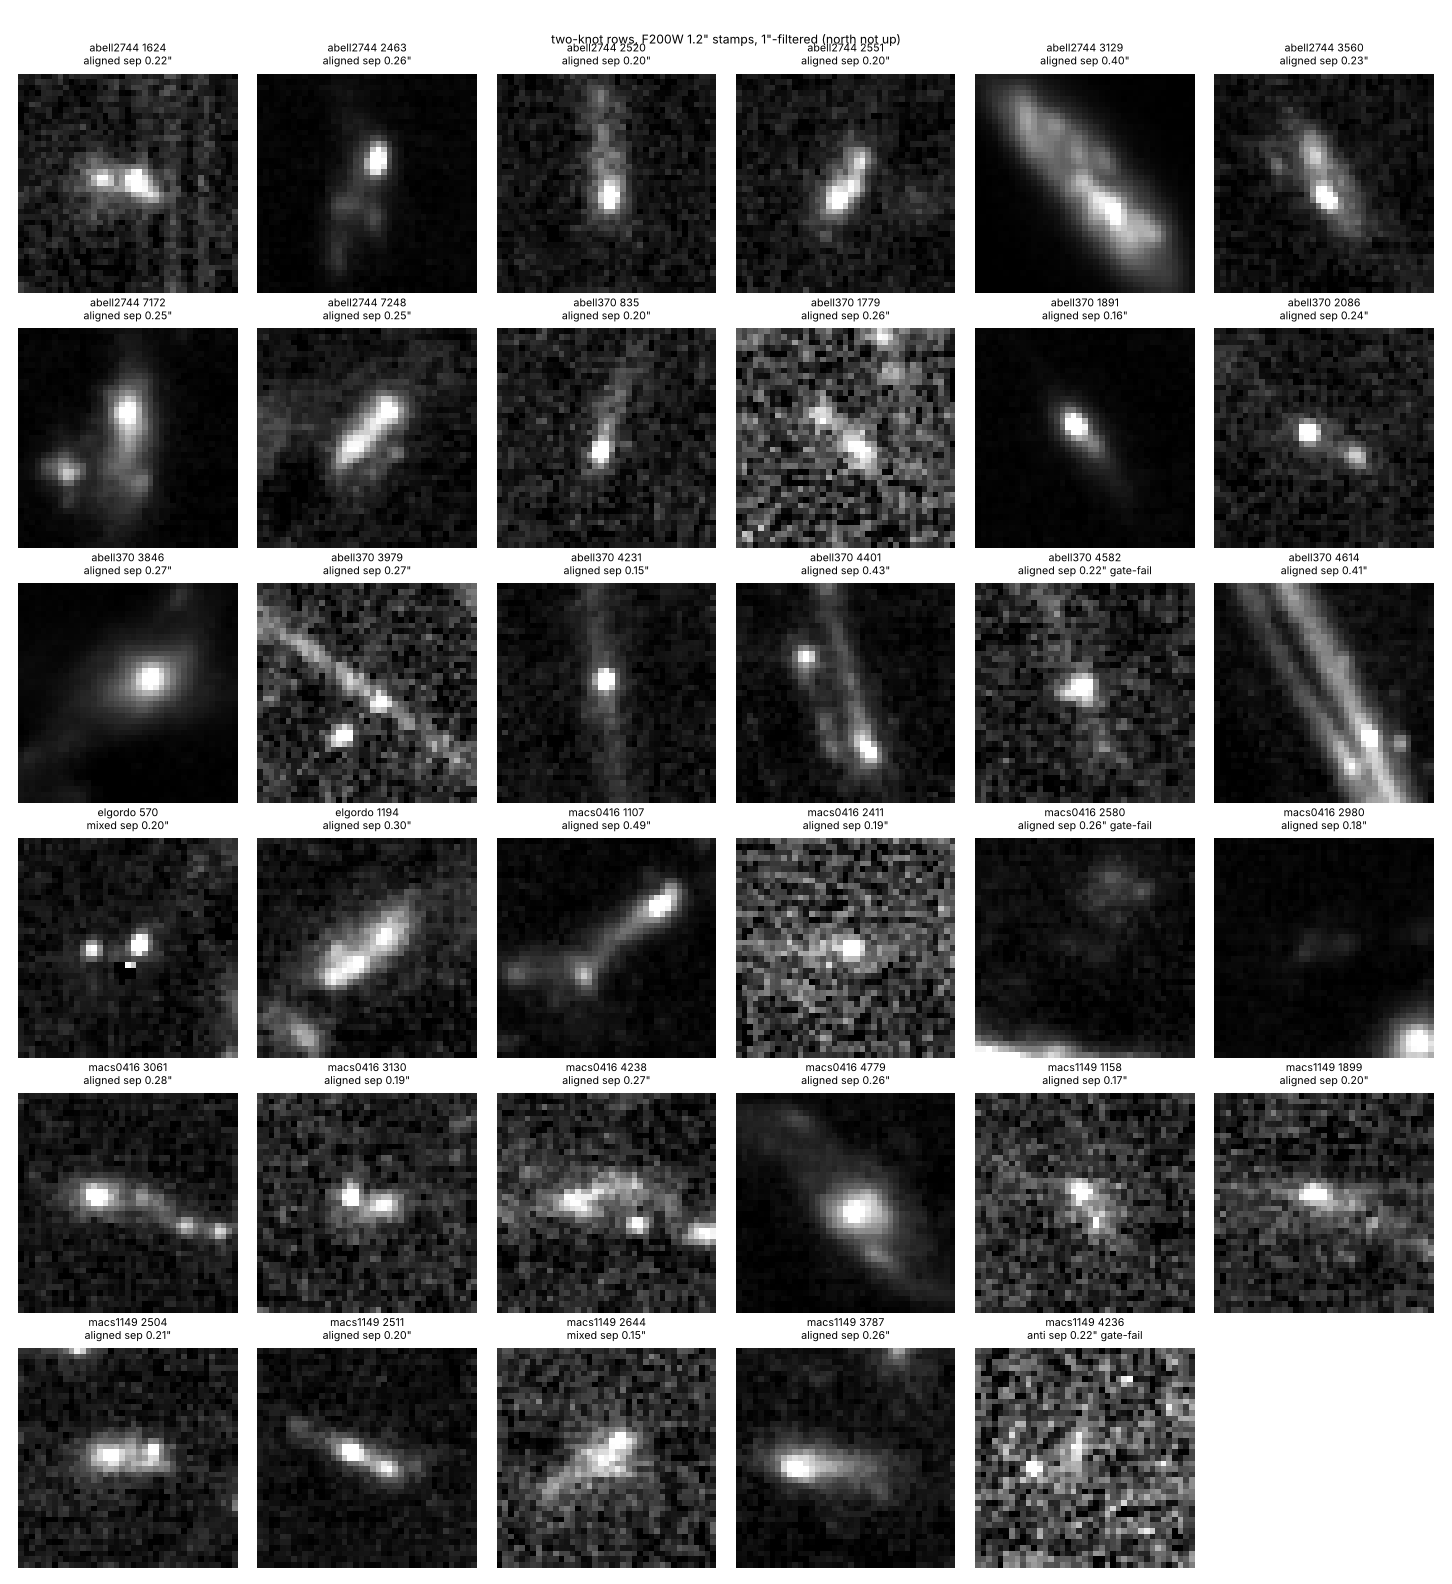
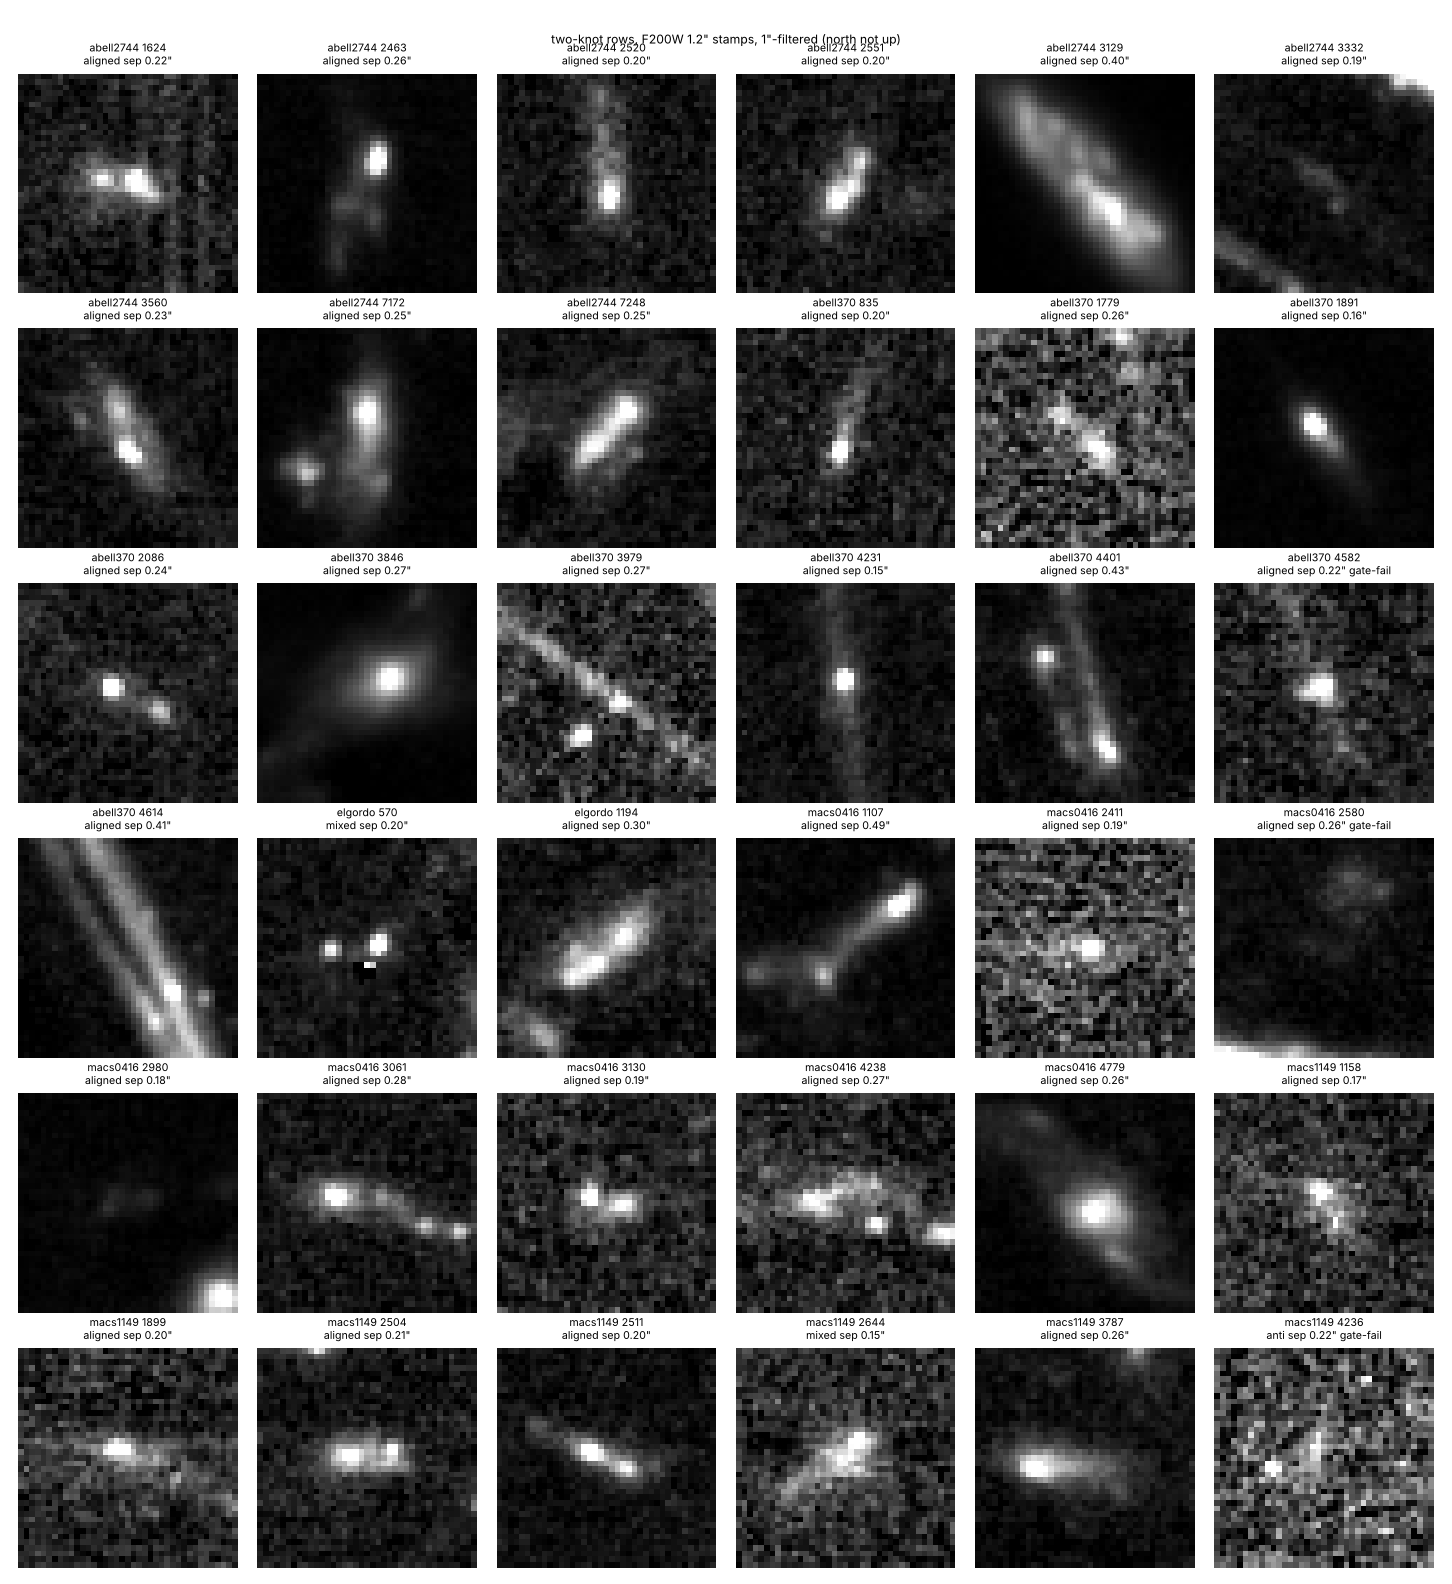
arcs census-fields: re-run with #273's fixed fit_models; f 0.280, S1063 P 0.032, outcome unchanged
Three formerly pinned fits changed class (Abell 2744 3332, MACS0416 1414 and 2144); the frozen
outcome "excess remains at the five-field clump rate (exploratory)" is unchanged.

Claude-Session: https://claude.ai/code/session_01GeKWTRU8v16Vhbc7AbDBQh

diff --git a/results/arcs/census-fields/RESULT.md b/results/arcs/census-fields/RESULT.md
@@ -4,24 +4,33 @@ Plan: `PLAN.md` (committed before the run, 468f018). Script: `scripts/arcs_censu
 unchanged; outcome rule `plan_outcome`, unit-tested) → `census_fields.{json,ecsv}`, `two_knot.png`. Labels: pixels
 observed; classes derived; injections simulations; f̂ and P model_prediction. Depends on #273 (S1063 census).
 
+## Re-run with the fixed census code (2026-10-16, cloud routine 01GeKWTR)
+The first run (055621d) used the pre-fix `arcs_vet_deblend.fit_models` (start flux and bound from the filtered sum,
+which pinned faint sources). The tables below are the re-run with #273's final code on main (`flux_scale`), plan,
+seeds and rules unchanged; cutouts re-fetched. Three rows changed, all from pinned fits (old knot S/N ~1e-10):
+Abell 2744 3332 `single` gate-failed → `two-knot` gate-passed; MACS0416 1414 and 2144 `single` → `undecided`, both
+still gate-failed. Pooled f̂ 0.274 → 0.280, S1063 P 0.031 → 0.032; the frozen outcome is unchanged. Looked at: 3332
+is a faint low-surface-brightness source near the mosaic edge, not a clear pair by eye (it raises f̂, as the rows
+noted below).
+
 ## Census (frozen rule, own-flux gate per row; `census_fields.json` "per_field")
 | Field | rows | gate passed | `two-knot` | f̂ | 95 % upper |
 |---|---|---|---|---|---|
-| Abell 2744 | 35 | 33 | 8 | 0.242 | 0.423 |
+| Abell 2744 | 35 | 34 | 9 | 0.265 | 0.444 |
 | Abell 370 | 56 | 34 | 9 | 0.265 | 0.444 |
 | El Gordo | 12 | 12 | 2 | 0.167 | 0.484 |
 | MACS0416 | 27 | 19 | 7 | 0.368 | 0.616 |
 | MACS1149 | 24 | 19 | 6 | 0.316 | 0.566 |
-| **Pooled** | 154 | 117 | 32 | **0.274** | **0.364** |
+| **Pooled** | 154 | 118 | 33 | **0.280** | **0.370** |
 | S1063 (#273, for comparison) | 24 | 21 | 5 | 0.238 | 0.472 |
 
 No row fell outside its mosaic. Every field has ≥ 12 gate-passed rows.
 
 ## S1063 under the five-field rate (frozen outcome; `census_fields.json` "s1063_p_ge_4_anti")
 - Mixture null with the S1063 per-row p_cp, p_sn (`abells1063-cats/vetting/census.ecsv`): P(≥ 4 anti) =
-  **0.031** at the pooled f̂ and 0.054 at its 95 % upper.
-- **Frozen outcome: "S1063 excess remains at the five-field clump rate (exploratory)"** (0.031 < 0.05).
-- Reading (narrow): an independent clump rate (0.27) is close to S1063's own (0.24), so it does not remove the
+  **0.032** at the pooled f̂ and 0.056 at its 95 % upper.
+- **Frozen outcome: "S1063 excess remains at the five-field clump rate (exploratory)"** (0.032 < 0.05).
+- Reading (narrow): an independent clump rate (0.28) is close to S1063's own (0.24), so it does not remove the
   excess; at the pooled upper (0.36) P is just above 0.05. The S1063-only upper (0.47) gave 0.093 (#273); the pooled
   rate narrows that range.
 

diff --git a/CHANGELOG.md b/CHANGELOG.md
@@ -2,14 +2,17 @@
 
 Newest first. Results, failed approaches and the handoff state; not a diary.
 
-## 2026-10-16: Clump-pair census on five other `arcs` fields: pooled two-knot rate 0.27; the S1063 anti excess stays at P 0.031 (exploratory)
+## 2026-10-16: Clump-pair census on five other `arcs` fields: pooled two-knot rate 0.28; the S1063 anti excess stays at P 0.032 (exploratory)
 - **Why:** the S1063 clump-aware null (#273) used a clump rate from that field alone (0.24, upper 0.47). Plan before
   the run: `results/arcs/census-fields/PLAN.md`; code `scripts/arcs_census_fields.py` (S1063 census code unchanged,
   outcome rule unit-tested). Depends on #273.
 - **Result (derived; `results/arcs/census-fields/RESULT.md`, `census_fields.json`):** 154 strong-shear background
-  rows in Abell 2744, Abell 370, El Gordo, MACS0416, MACS1149; 117 pass the own-flux gate; 32 `two-knot` → pooled
-  f̂ 0.274 (95 % upper 0.364; per field 0.17–0.37). S1063 P(≥ 4 anti) 0.031 at f̂, 0.054 at the upper. **Frozen
+  rows in Abell 2744, Abell 370, El Gordo, MACS0416, MACS1149; 118 pass the own-flux gate; 33 `two-knot` → pooled
+  f̂ 0.280 (95 % upper 0.370; per field 0.17–0.37). S1063 P(≥ 4 anti) 0.032 at f̂, 0.056 at the upper. **Frozen
   outcome: excess remains at the five-field clump rate (exploratory).**
+- **Re-run with the fixed `fit_models`** (#273 final code; the first run used the pre-fix version): 3 rows changed,
+  all formerly pinned fits (Abell 2744 3332 → gate-passed `two-knot`; MACS0416 1414, 2144 → `undecided`, still
+  gate-failed); first-run values 117 / 32 / 0.274 / P 0.031. Outcome unchanged; these numbers may now be cited.
 - **Looked at** (`two_knot.png`): several `two-knot` rows are a knot plus a neighbouring streak or object, which
   can only raise f̂. Post hoc: none of the 4 gate-passed screen-anti rows in the five fields is `two-knot`.
 - **Handoff:** 1316 and 1557 remain open, unvetted, not candidates. Next: an independent field for the anti excess

diff --git a/TASKS.md b/TASKS.md
@@ -219,7 +219,8 @@ Independent program; takes no resources from MOA-II, S1, E1/D1 or data validatio
      `results/arcs/macs1423-canucs/`): CANUCS DR1 maps, screen anti 4 vs 0.95 (P 0.016), but the clump-pair census
      gives P 0.259 (exploratory): not replicated under the clump-aware null. **Needs a re-check before reuse:** the
      census used the pre-fix `arcs_vet_deblend.fit_models` (fixed in #273: flux start/bound, census null/count);
-     the same applies to #279 (open). Do not cite these census numbers until re-run. ~~RXJ2129~~ — done (2026-10-16,
+     #279 was re-run with the fixed code (2026-10-16: f̂ 0.280, S1063 P 0.032, outcome unchanged); the MACS1423 re-run is
+     claimed on #287. Do not cite the MACS1423 census numbers until #287 lands. ~~RXJ2129~~ — done (2026-10-16,
      `results/arcs/rxj2129/RESULT.md`): Lenstool and GLAFIC JWST-updated maps both fail the control (8 / 12),
      no result. Next, optional: RXJ2129 on the deeper DJA catalogue (new plan; shape source changes);
    - ~~arc curvature~~ — done (D-024 addenda 5–6): forward-modelled curvature, 5 testable arcs all as predicted (El

diff --git a/docs/state/trial.md b/docs/state/trial.md
@@ -217,6 +217,7 @@ adds its line, with a note naming the unit.
 | 2026-W42 | ≈ 0.35 (`arcs` on RXJ2129 with the DJA catalogue: PA convention gate, run, sheet; no result) | — | — | 0.1 (orientation, claim, PR) | cloud routine 01ExftNC, 21:08–21:45Z |
 | 2026-W42 | ≈ 1.0 (El Gordo arc_diff one-box pilot: screen, full-chain injections, 4 entries vetted) | — | ≈ 0.4 (spike, on-spike and bright-source controls) | 0.2 (orientation, claim, state files) | interactive session 01P8KV8A |
 | 2026-W42 | — | — | ≈ 0.15 (`arcs` PA convention check: pa_sep vs pa_obs on stored census rows) | 0.1 (orientation, claim, PR) | cloud routine 01UdRNer, 22:08–22:35Z |
+| 2026-W42 | — | — | ≈ 0.6 (#279 five-field census re-run with the fixed `fit_models`; sheet looked at; MACS1423 re-run planned on #287) | 0.1 (orientation, base merge, claim, state files) | cloud routine 01GeKWTR, 23:07–23:55Z |
 
 ## Outcome ledger (four columns only)
 | Method improvements | Conditional theory results | Real candidates | Independent verifications |
